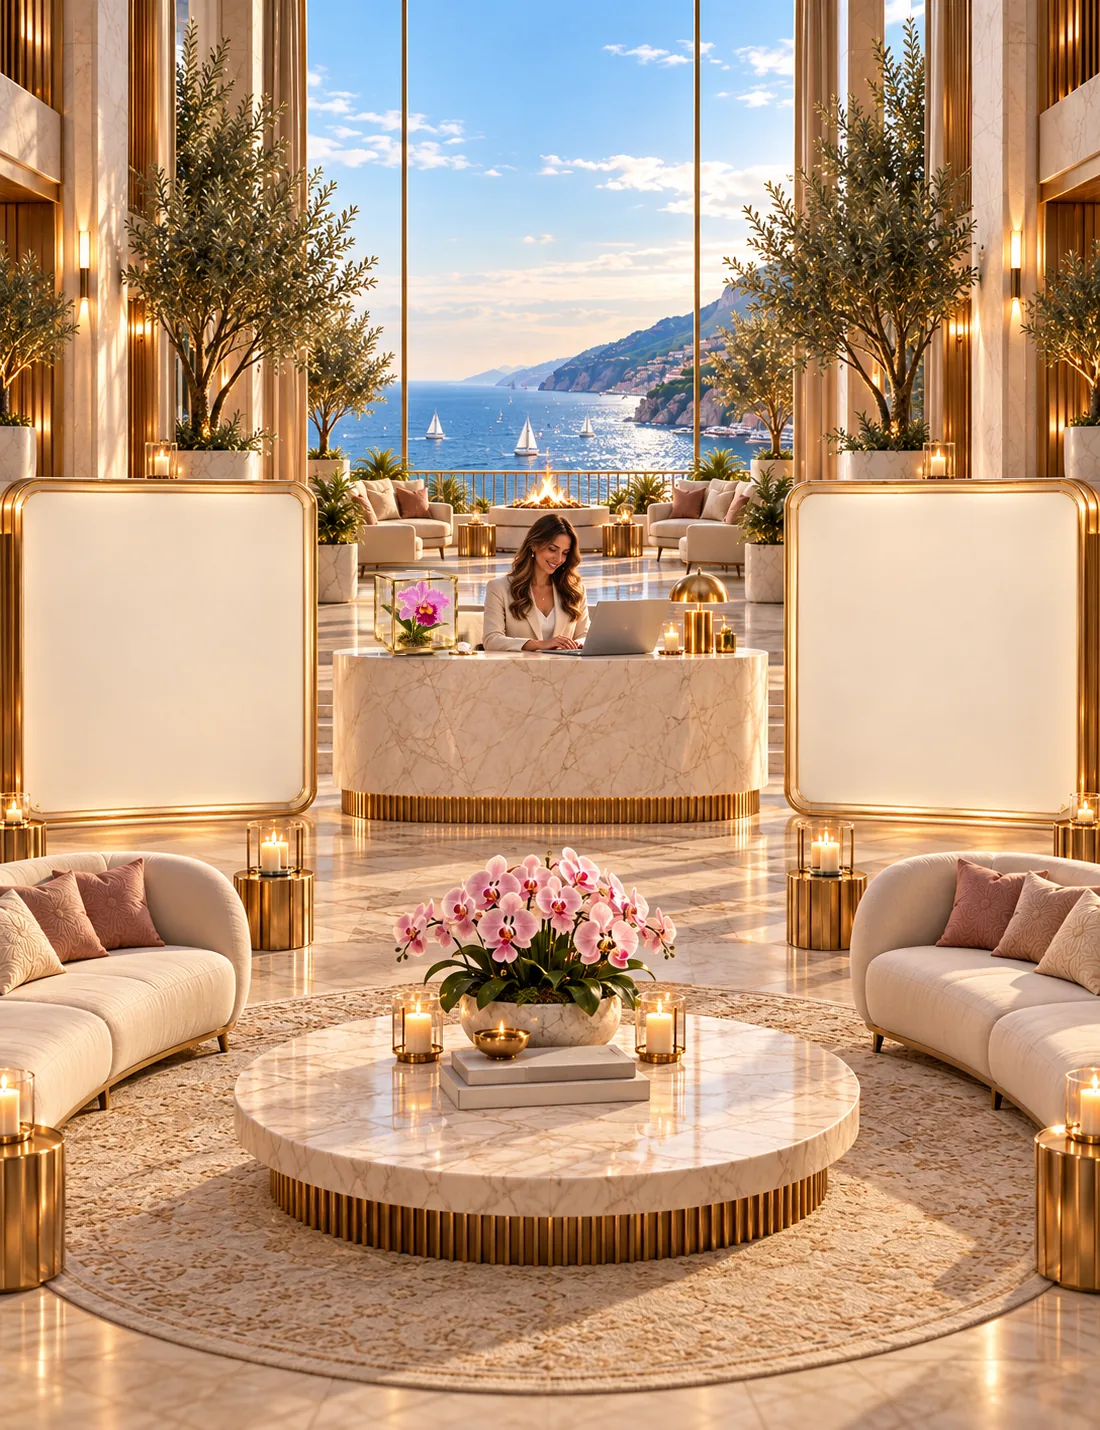
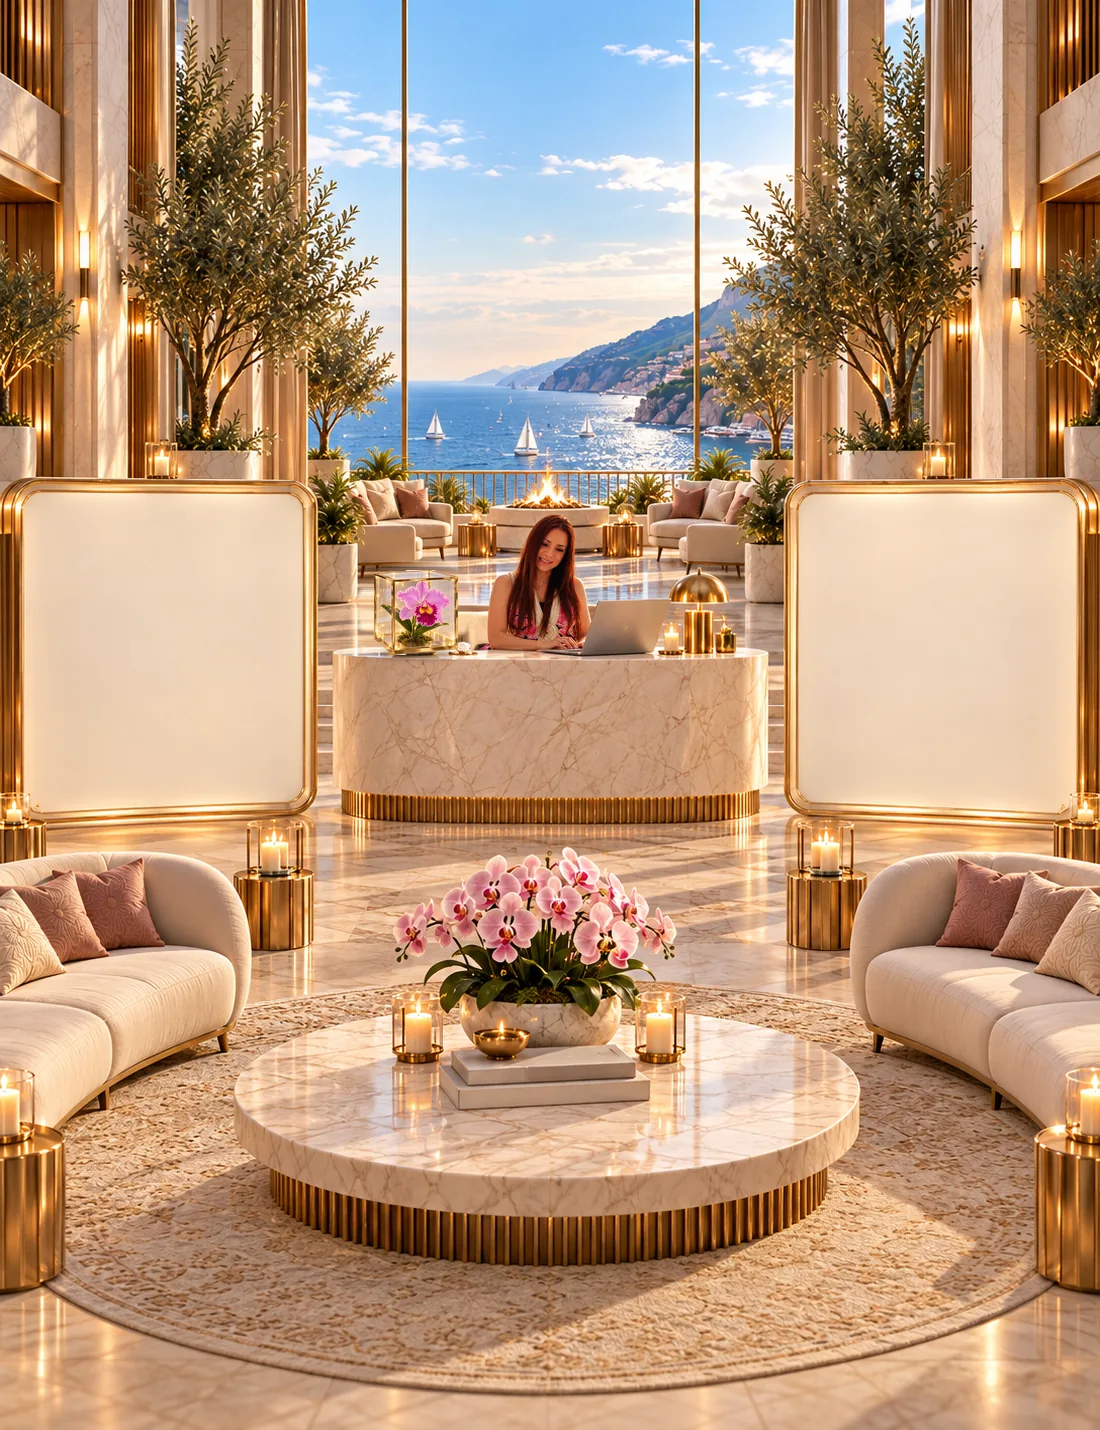
Lobby: anfitriona con foto de Jazz (vestido de flores)
Claude-Session: https://claude.ai/code/session_01N9LMnzoHcTVnJVvaoy1ZZX

Changed region(s): [[0.4327, 0.3385, 0.5873, 0.4615]]

diff --git a/lobby.js b/lobby.js
@@ -120,7 +120,7 @@ function build() {
   const host = document.getElementById("home"); if (!host || built) return;
   root = mk(""); root.id = "lobby"; root.setAttribute("role", "region"); root.setAttribute("aria-label", "Lobby");
   stage = mk("lb-stage");
-  const img = new Image(); img.src = "lobby/home.webp?v=20261028a"; img.alt = ""; img.decoding = "async"; stage.appendChild(img);
+  const img = new Image(); img.src = "lobby/home.webp?v=20261028b"; img.alt = ""; img.decoding = "async"; stage.appendChild(img);
 
   // saludo y marca
   const hello = place(mk("lb-abs lb-hello", '<div><div class="lb-greet"></div></div><div class="lb-brand"><div class="k">Club</div><div class="n">Código Mujer Libre</div><div class="t">CONECTA · VIVE · CRECE</div></div>'), 250, 40);
